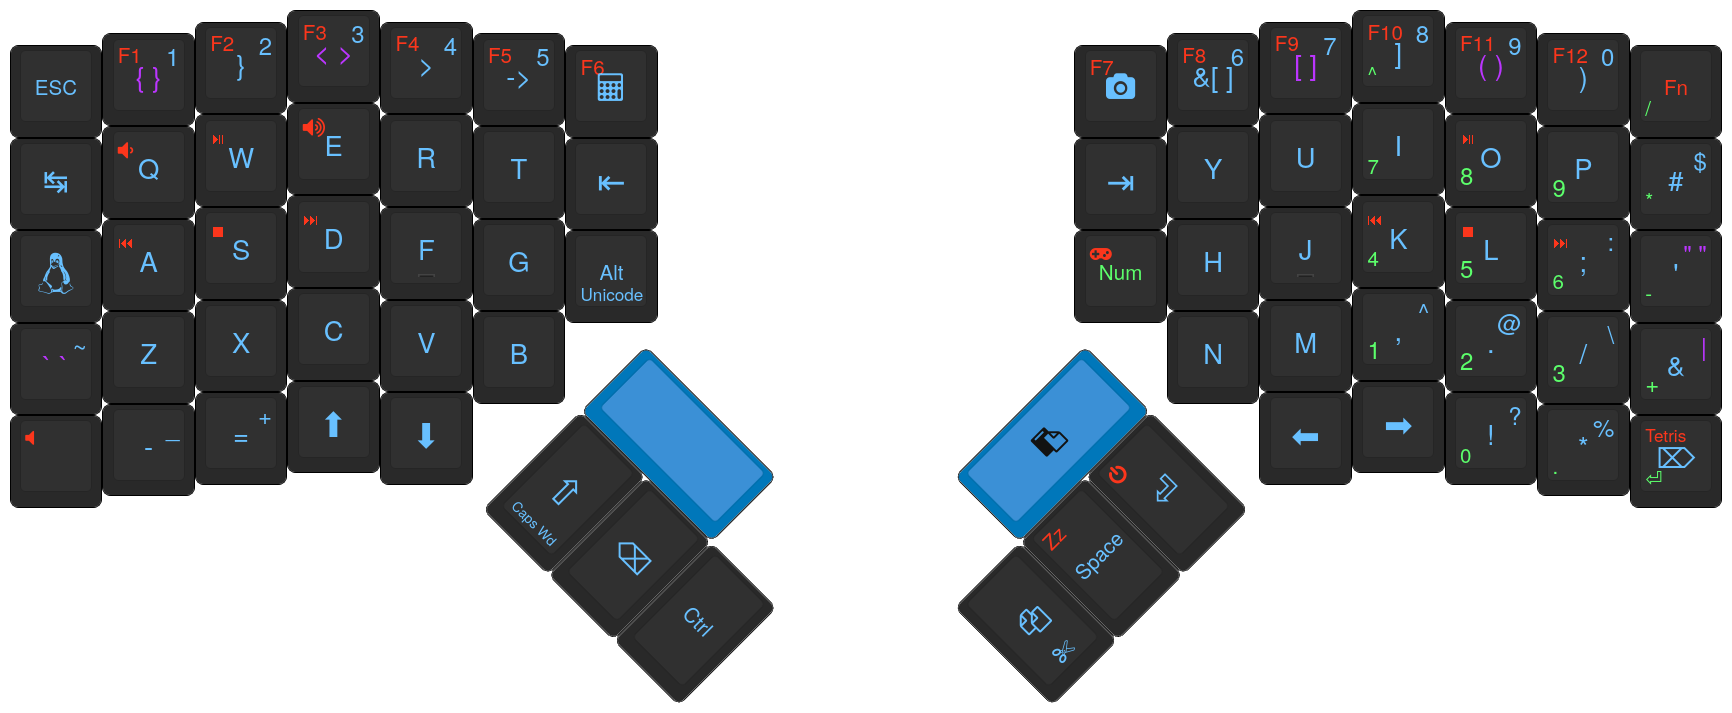
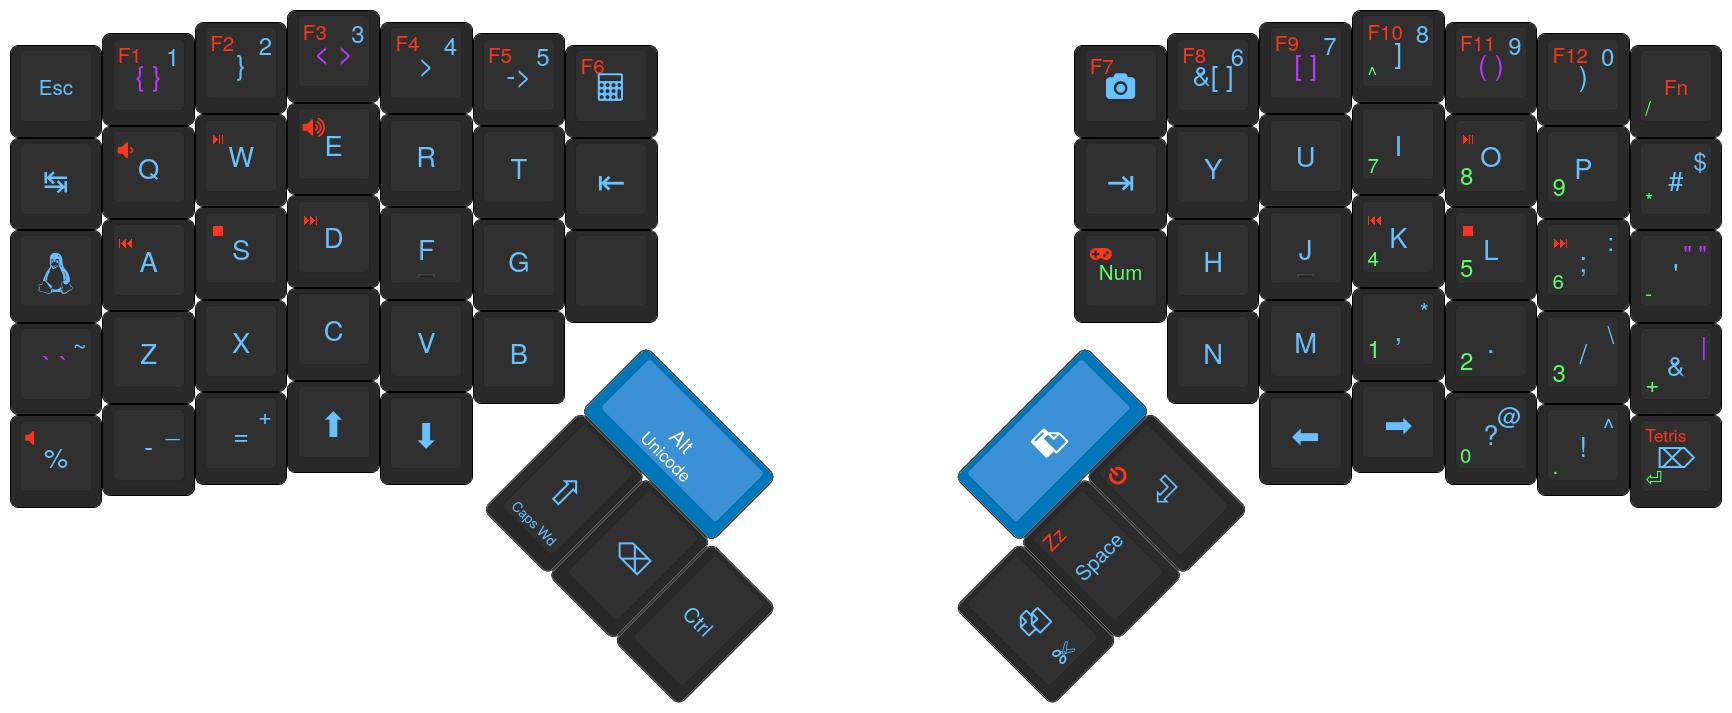
Moves alt to launch key.

diff --git a/keymap.c b/keymap.c
@@ -15,9 +15,9 @@ const uint16_t PROGMEM keymaps[][MATRIX_ROWS][MATRIX_COLS] = {
     //          KC_LCBR,    KC_RCBR,    KC_LABK,    KC_RABK,    XXXXXXXX,                                                   XXXXXXXX,   KC_LBRC,    KC_RBRC,    KC_LPRN,    KC_RPRN,
     KC_ESC,     PR_BRACE,   KC_2,       PR_ANGLE,   KC_4,       MA_ARROW,   KC_CALC,                            KC_PSCR,    MA_SLICE,   PR_BRACK,   KC_8,       PR_PAREN,   KC_0,       OSL(L_FUN),
     KC_TAB,     KC_Q,       KC_W,       KC_E,       KC_R,       KC_T,       KC_HOME,                            KC_END,     KC_Y,       KC_U,       KC_I,       KC_O,       KC_P,       KC_HASH,
-    KC_LGUI,    KC_A,       KC_S,       KC_D,       KC_F,       KC_G,       TH_ALTU,                            TG(L_NUM),  KC_H,       KC_J,       KC_K,       KC_L,       KC_SCLN,    PR_QUOTE,
+    KC_LGUI,    KC_A,       KC_S,       KC_D,       KC_F,       KC_G,       XXXXXXX,                            TG(L_NUM),  KC_H,       KC_J,       KC_K,       KC_L,       KC_SCLN,    PR_QUOTE,
     PR_BTICK,   KC_Z,       KC_X,       KC_C,       KC_V,       KC_B,                                                       KC_N,       KC_M,       KC_COMM,    KC_DOT,     KC_SLSH,    PR_AMPIP,
-    KC_PERC,    KC_MINS,    KC_EQL,     KC_UP,      KC_DOWN,                XXXXXXX,                            LCTL(KC_V),             KC_LEFT,    KC_RGHT,    KC_QUES,    KC_EXLM,    KC_DEL,
+    KC_PERC,    KC_MINS,    KC_EQL,     KC_UP,      KC_DOWN,                TH_ALTU,                            LCTL(KC_V),             KC_LEFT,    KC_RGHT,    KC_QUES,    KC_EXLM,    KC_DEL,
                                                                 KC_LSFT,    KC_BSPC,    KC_LCTL,    TD(T_COPY), KC_SPC,     KC_ENT
   ),
   [L_FUN] = LAYOUT_moonlander(
